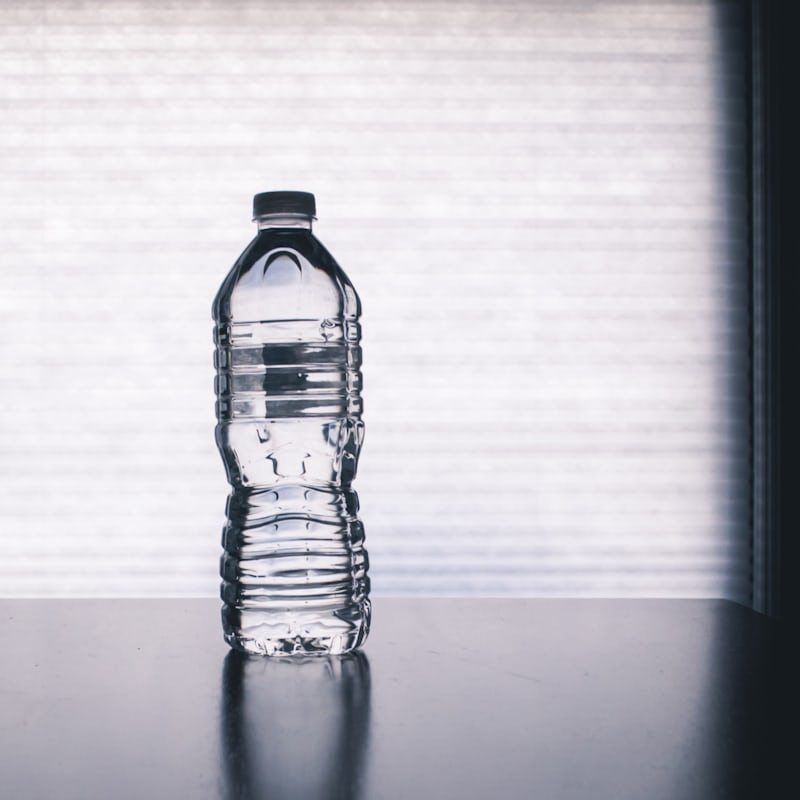
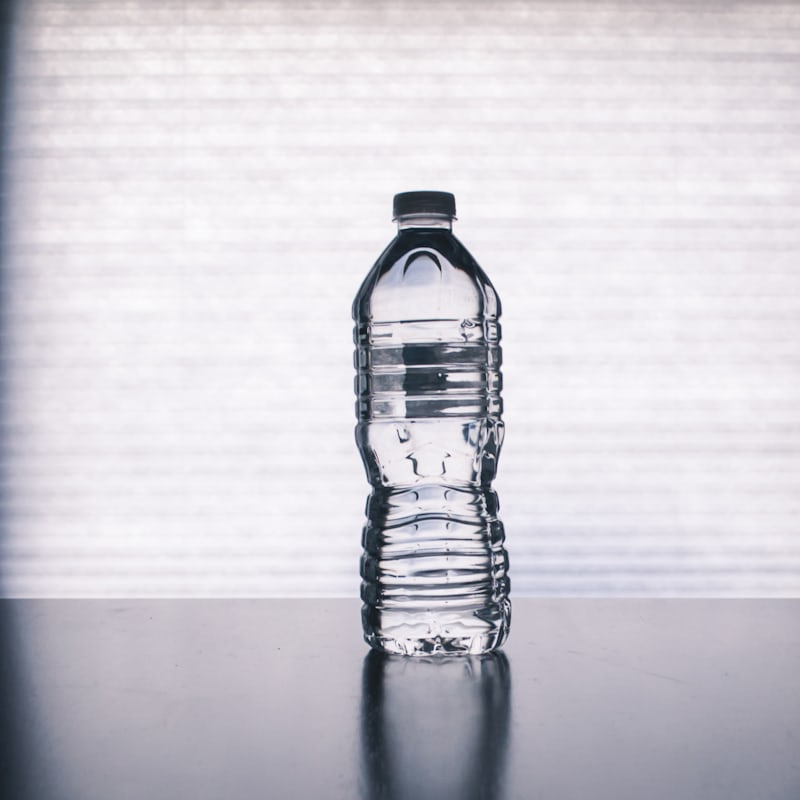
fix: image crops, scrollbar radius, button cursor and drag hijack

diff --git a/index.html b/index.html
@@ -89,8 +89,8 @@
         <li class="min-w-0 md:w-[355px] md:shrink-0">
           <article class="relative flex flex-col gap-3 pb-2 md:gap-4 md:pb-4">
             <div class="group relative overflow-hidden rounded-[10px]">
-              <img class="block aspect-square w-full object-cover" src="assets/img/product-01-a.jpg" alt="White t-shirt on a hanger against a dark textured wall" width="800" height="800" />
-              <img class="absolute inset-0 h-full w-full object-cover opacity-0 transition-opacity duration-300 group-hover:opacity-100 motion-reduce:transition-none" src="assets/img/product-01-b.jpg" alt="" width="800" height="800" />
+              <img draggable="false" class="block aspect-square w-full object-cover" src="assets/img/product-01-a.jpg" alt="White t-shirt on a hanger against a dark textured wall" width="800" height="800" />
+              <img draggable="false" class="absolute inset-0 h-full w-full object-cover opacity-0 transition-opacity duration-300 group-hover:opacity-100 motion-reduce:transition-none" src="assets/img/product-01-b.jpg" alt="" width="800" height="800" />
               <div class="pointer-events-none absolute inset-0 flex items-start justify-between p-1 md:p-2">
                 <span class="rounded-full border border-black px-2 py-1 text-center font-bebas text-[8px] leading-none tracking-[0.32px] md:text-[10px] md:tracking-[0.6px] bg-white text-ink">BEST SELLER</span>
                 <span class="rounded-full border border-black px-2 py-1 text-center font-bebas text-[8px] leading-none tracking-[0.32px] md:text-[10px] md:tracking-[0.6px] bg-forest text-cream">SAVE 15%</span>
@@ -132,8 +132,8 @@
         <li class="min-w-0 md:w-[355px] md:shrink-0">
           <article class="relative flex flex-col gap-3 pb-2 md:gap-4 md:pb-4">
             <div class="group relative overflow-hidden rounded-[10px]">
-              <img class="block aspect-square w-full object-cover" src="assets/img/product-02-a.jpg" alt="Matte forest green insulated bottle on a pale background" width="800" height="800" />
-              <img class="absolute inset-0 h-full w-full object-cover opacity-0 transition-opacity duration-300 group-hover:opacity-100 motion-reduce:transition-none" src="assets/img/product-02-b.jpg" alt="" width="800" height="800" />
+              <img draggable="false" class="block aspect-square w-full object-cover" src="assets/img/product-02-a.jpg" alt="Matte forest green insulated bottle on a pale background" width="800" height="800" />
+              <img draggable="false" class="absolute inset-0 h-full w-full object-cover opacity-0 transition-opacity duration-300 group-hover:opacity-100 motion-reduce:transition-none" src="assets/img/product-02-b.jpg" alt="" width="800" height="800" />
               <div class="pointer-events-none absolute inset-0 flex items-start justify-between p-1 md:p-2">
                 <span class="rounded-full border border-black px-2 py-1 text-center font-bebas text-[8px] leading-none tracking-[0.32px] md:text-[10px] md:tracking-[0.6px] bg-white text-ink">BEST SELLER</span>
               </div>
@@ -161,8 +161,8 @@
         <li class="min-w-0 md:w-[355px] md:shrink-0">
           <article class="relative flex flex-col gap-3 pb-2 md:gap-4 md:pb-4">
             <div class="group relative overflow-hidden rounded-[10px]">
-              <img class="block aspect-square w-full object-cover" src="assets/img/product-03-a.jpg" alt="Sage green shirts hanging in a row on a clothing rail" width="800" height="800" />
-              <img class="absolute inset-0 h-full w-full object-cover opacity-0 transition-opacity duration-300 group-hover:opacity-100 motion-reduce:transition-none" src="assets/img/product-03-b.jpg" alt="" width="800" height="800" />
+              <img draggable="false" class="block aspect-square w-full object-cover" src="assets/img/product-03-a.jpg" alt="Row of sage green shirts hanging on wooden hangers" width="800" height="800" />
+              <img draggable="false" class="absolute inset-0 h-full w-full object-cover opacity-0 transition-opacity duration-300 group-hover:opacity-100 motion-reduce:transition-none" src="assets/img/product-03-b.jpg" alt="" width="800" height="800" />
               <div class="pointer-events-none absolute inset-0 flex items-start justify-between p-1 md:p-2">
                 <span class="rounded-full border border-black px-2 py-1 text-center font-bebas text-[8px] leading-none tracking-[0.32px] md:text-[10px] md:tracking-[0.6px] bg-white text-ink">BEST SELLER</span>
                 <span class="rounded-full border border-black px-2 py-1 text-center font-bebas text-[8px] leading-none tracking-[0.32px] md:text-[10px] md:tracking-[0.6px] bg-forest text-cream">SAVE 15%</span>
@@ -191,8 +191,8 @@
         <li class="min-w-0 md:w-[355px] md:shrink-0">
           <article class="relative flex flex-col gap-3 pb-2 md:gap-4 md:pb-4">
             <div class="group relative overflow-hidden rounded-[10px]">
-              <img class="block aspect-square w-full object-cover" src="assets/img/product-04-a.jpg" alt="White trucker cap on a plain background" width="800" height="800" />
-              <img class="absolute inset-0 h-full w-full object-cover opacity-0 transition-opacity duration-300 group-hover:opacity-100 motion-reduce:transition-none" src="assets/img/product-04-b.jpg" alt="" width="800" height="800" />
+              <img draggable="false" class="block aspect-square w-full object-cover" src="assets/img/product-04-a.jpg" alt="White trucker cap on a plain background" width="800" height="800" />
+              <img draggable="false" class="absolute inset-0 h-full w-full object-cover opacity-0 transition-opacity duration-300 group-hover:opacity-100 motion-reduce:transition-none" src="assets/img/product-04-b.jpg" alt="" width="800" height="800" />
               <div class="pointer-events-none absolute inset-0 flex items-start justify-between p-1 md:p-2">
                 <span class="rounded-full border border-black px-2 py-1 text-center font-bebas text-[8px] leading-none tracking-[0.32px] md:text-[10px] md:tracking-[0.6px] bg-white text-ink">BEST SELLER</span>
               </div>
@@ -220,8 +220,8 @@
         <li class="min-w-0 md:w-[355px] md:shrink-0">
           <article class="relative flex flex-col gap-3 pb-2 md:gap-4 md:pb-4">
             <div class="group relative overflow-hidden rounded-[10px]">
-              <img class="block aspect-square w-full object-cover" src="assets/img/product-05-a.jpg" alt="Person seen from behind wearing a grey hooded sweatshirt outdoors" width="800" height="800" />
-              <img class="absolute inset-0 h-full w-full object-cover opacity-0 transition-opacity duration-300 group-hover:opacity-100 motion-reduce:transition-none" src="assets/img/product-05-b.jpg" alt="" width="800" height="800" />
+              <img draggable="false" class="block aspect-square w-full object-cover" src="assets/img/product-05-a.jpg" alt="Person seen from behind wearing a rust orange hoodie on steps" width="800" height="800" />
+              <img draggable="false" class="absolute inset-0 h-full w-full object-cover opacity-0 transition-opacity duration-300 group-hover:opacity-100 motion-reduce:transition-none" src="assets/img/product-05-b.jpg" alt="" width="800" height="800" />
               <div class="pointer-events-none absolute inset-0 flex items-start justify-between p-1 md:p-2">
                 <span class="rounded-full border border-black px-2 py-1 text-center font-bebas text-[8px] leading-none tracking-[0.32px] md:text-[10px] md:tracking-[0.6px] bg-white text-ink">BEST SELLER</span>
                 <span class="rounded-full border border-black px-2 py-1 text-center font-bebas text-[8px] leading-none tracking-[0.32px] md:text-[10px] md:tracking-[0.6px] bg-forest text-cream">SAVE 15%</span>
@@ -250,8 +250,8 @@
         <li class="min-w-0 md:w-[355px] md:shrink-0">
           <article class="relative flex flex-col gap-3 pb-2 md:gap-4 md:pb-4">
             <div class="group relative overflow-hidden rounded-[10px]">
-              <img class="block aspect-square w-full object-cover" src="assets/img/product-06-a.jpg" alt="Natural canvas tote bag hanging against a grey wall" width="800" height="800" />
-              <img class="absolute inset-0 h-full w-full object-cover opacity-0 transition-opacity duration-300 group-hover:opacity-100 motion-reduce:transition-none" src="assets/img/product-06-b.jpg" alt="" width="800" height="800" />
+              <img draggable="false" class="block aspect-square w-full object-cover" src="assets/img/product-06-a.jpg" alt="Natural canvas tote bag hanging against a grey wall" width="800" height="800" />
+              <img draggable="false" class="absolute inset-0 h-full w-full object-cover opacity-0 transition-opacity duration-300 group-hover:opacity-100 motion-reduce:transition-none" src="assets/img/product-06-b.jpg" alt="" width="800" height="800" />
               <div class="pointer-events-none absolute inset-0 flex items-start justify-between p-1 md:p-2">
                 <span class="rounded-full border border-black px-2 py-1 text-center font-bebas text-[8px] leading-none tracking-[0.32px] md:text-[10px] md:tracking-[0.6px] bg-white text-ink">BEST SELLER</span>
               </div>
@@ -279,8 +279,8 @@
         <li class="min-w-0 md:w-[355px] md:shrink-0">
           <article class="relative flex flex-col gap-3 pb-2 md:gap-4 md:pb-4">
             <div class="group relative overflow-hidden rounded-[10px]">
-              <img class="block aspect-square w-full object-cover" src="assets/img/product-07-a.jpg" alt="Patterned socks pegged along a washing line" width="800" height="800" />
-              <img class="absolute inset-0 h-full w-full object-cover opacity-0 transition-opacity duration-300 group-hover:opacity-100 motion-reduce:transition-none" src="assets/img/product-07-b.jpg" alt="" width="800" height="800" />
+              <img draggable="false" class="block aspect-square w-full object-cover" src="assets/img/product-07-a.jpg" alt="Patterned socks pegged along a washing line" width="800" height="800" />
+              <img draggable="false" class="absolute inset-0 h-full w-full object-cover opacity-0 transition-opacity duration-300 group-hover:opacity-100 motion-reduce:transition-none" src="assets/img/product-07-b.jpg" alt="" width="800" height="800" />
               <div class="pointer-events-none absolute inset-0 flex items-start justify-between p-1 md:p-2">
                 <span class="rounded-full border border-black px-2 py-1 text-center font-bebas text-[8px] leading-none tracking-[0.32px] md:text-[10px] md:tracking-[0.6px] bg-white text-ink">BEST SELLER</span>
                 <span class="rounded-full border border-black px-2 py-1 text-center font-bebas text-[8px] leading-none tracking-[0.32px] md:text-[10px] md:tracking-[0.6px] bg-forest text-cream">SAVE 15%</span>
@@ -309,8 +309,8 @@
         <li class="min-w-0 md:w-[355px] md:shrink-0">
           <article class="relative flex flex-col gap-3 pb-2 md:gap-4 md:pb-4">
             <div class="group relative overflow-hidden rounded-[10px]">
-              <img class="block aspect-square w-full object-cover" src="assets/img/product-08-a.jpg" alt="Pink, yellow and black ribbed beanies arranged on the ground" width="800" height="800" />
-              <img class="absolute inset-0 h-full w-full object-cover opacity-0 transition-opacity duration-300 group-hover:opacity-100 motion-reduce:transition-none" src="assets/img/product-08-b.jpg" alt="" width="800" height="800" />
+              <img draggable="false" class="block aspect-square w-full object-cover" src="assets/img/product-08-a.jpg" alt="Pink, yellow and black ribbed beanies arranged on the ground" width="800" height="800" />
+              <img draggable="false" class="absolute inset-0 h-full w-full object-cover opacity-0 transition-opacity duration-300 group-hover:opacity-100 motion-reduce:transition-none" src="assets/img/product-08-b.jpg" alt="" width="800" height="800" />
               <div class="pointer-events-none absolute inset-0 flex items-start justify-between p-1 md:p-2">
                 <span class="rounded-full border border-black px-2 py-1 text-center font-bebas text-[8px] leading-none tracking-[0.32px] md:text-[10px] md:tracking-[0.6px] bg-white text-ink">BEST SELLER</span>
               </div>
@@ -338,8 +338,8 @@
         <li class="min-w-0 md:w-[355px] md:shrink-0">
           <article class="relative flex flex-col gap-3 pb-2 md:gap-4 md:pb-4">
             <div class="group relative overflow-hidden rounded-[10px]">
-              <img class="block aspect-square w-full object-cover" src="assets/img/product-09-a.jpg" alt="Three insulated bottles in orange, teal and lilac" width="800" height="800" />
-              <img class="absolute inset-0 h-full w-full object-cover opacity-0 transition-opacity duration-300 group-hover:opacity-100 motion-reduce:transition-none" src="assets/img/product-09-b.jpg" alt="" width="800" height="800" />
+              <img draggable="false" class="block aspect-square w-full object-cover" src="assets/img/product-09-a.jpg" alt="Three insulated bottles in orange, teal and lilac" width="800" height="800" />
+              <img draggable="false" class="absolute inset-0 h-full w-full object-cover opacity-0 transition-opacity duration-300 group-hover:opacity-100 motion-reduce:transition-none" src="assets/img/product-09-b.jpg" alt="" width="800" height="800" />
               <div class="pointer-events-none absolute inset-0 flex items-start justify-between p-1 md:p-2">
                 <span class="rounded-full border border-black px-2 py-1 text-center font-bebas text-[8px] leading-none tracking-[0.32px] md:text-[10px] md:tracking-[0.6px] bg-white text-ink">BEST SELLER</span>
                 <span class="rounded-full border border-black px-2 py-1 text-center font-bebas text-[8px] leading-none tracking-[0.32px] md:text-[10px] md:tracking-[0.6px] bg-forest text-cream">SAVE 15%</span>
@@ -368,8 +368,8 @@
         <li class="min-w-0 md:w-[355px] md:shrink-0">
           <article class="relative flex flex-col gap-3 pb-2 md:gap-4 md:pb-4">
             <div class="group relative overflow-hidden rounded-[10px]">
-              <img class="block aspect-square w-full object-cover" src="assets/img/product-10-a.jpg" alt="Person outdoors wearing a blush pink hooded sweatshirt" width="800" height="800" />
-              <img class="absolute inset-0 h-full w-full object-cover opacity-0 transition-opacity duration-300 group-hover:opacity-100 motion-reduce:transition-none" src="assets/img/product-10-b.jpg" alt="" width="800" height="800" />
+              <img draggable="false" class="block aspect-square w-full object-cover" src="assets/img/product-10-a.jpg" alt="Person outdoors wearing a blush pink hooded sweatshirt" width="800" height="800" />
+              <img draggable="false" class="absolute inset-0 h-full w-full object-cover opacity-0 transition-opacity duration-300 group-hover:opacity-100 motion-reduce:transition-none" src="assets/img/product-10-b.jpg" alt="" width="800" height="800" />
               <div class="pointer-events-none absolute inset-0 flex items-start justify-between p-1 md:p-2">
                 <span class="rounded-full border border-black px-2 py-1 text-center font-bebas text-[8px] leading-none tracking-[0.32px] md:text-[10px] md:tracking-[0.6px] bg-white text-ink">BEST SELLER</span>
               </div>
@@ -400,10 +400,10 @@
             aria-hidden="true"
             class="relative hidden h-[6px] cursor-pointer md:block"
           >
-            <span class="absolute inset-x-0 top-1/2 h-[4px] -translate-y-1/2 bg-track"></span>
+            <span class="absolute inset-x-0 top-1/2 h-[4px] -translate-y-1/2 rounded-full bg-track"></span>
             <span
               data-scrollbar-thumb
-              class="absolute top-1/2 left-0 h-[4px] w-0 -translate-y-1/2 bg-ink transition-[height] duration-150 hover:h-[6px]"
+              class="absolute top-1/2 left-0 h-[4px] w-0 -translate-y-1/2 rounded-full bg-ink transition-[height] duration-150 hover:h-[6px]"
             ></span>
           </div>
         </product-slider>
@@ -414,7 +414,7 @@
           type="button"
           aria-expanded="false"
           aria-controls="product-list"
-          class="w-full rounded-full bg-ink px-6 py-4 text-[16px] font-semibold tracking-[0.48px] text-cream focus-visible:outline-2 focus-visible:outline-offset-2 focus-visible:outline-ink"
+          class="w-full cursor-pointer rounded-full bg-ink px-6 py-4 text-[16px] font-semibold tracking-[0.48px] text-cream focus-visible:outline-2 focus-visible:outline-offset-2 focus-visible:outline-ink"
         >
           Show More
         </button>

diff --git a/js/main.js b/js/main.js
@@ -41,9 +41,7 @@ if (!customElements.get('product-slider')) {
       this.list.addEventListener('pointermove', this.onSlideMove);
       this.list.addEventListener('pointerup', this.onSlideUp);
       this.list.addEventListener('pointercancel', this.onSlideUp);
-      this.list.addEventListener('dragstart', (event) => {
-        if (this.dragged) event.preventDefault();
-      });
+      this.list.addEventListener('dragstart', (event) => event.preventDefault());
 
       if (document.fonts) document.fonts.ready.then(this.sync);
       this.sync();
